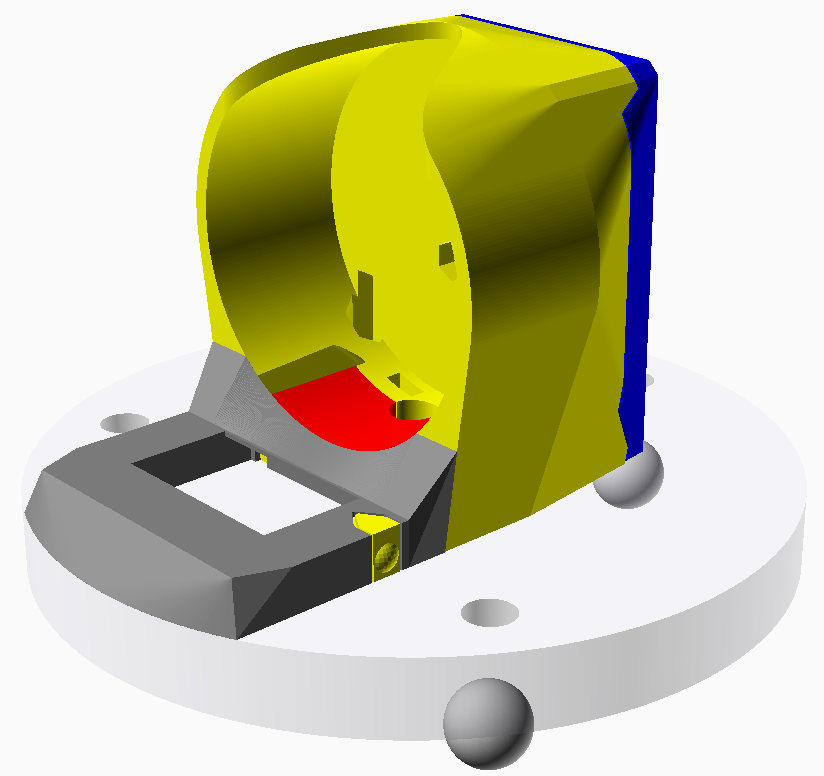
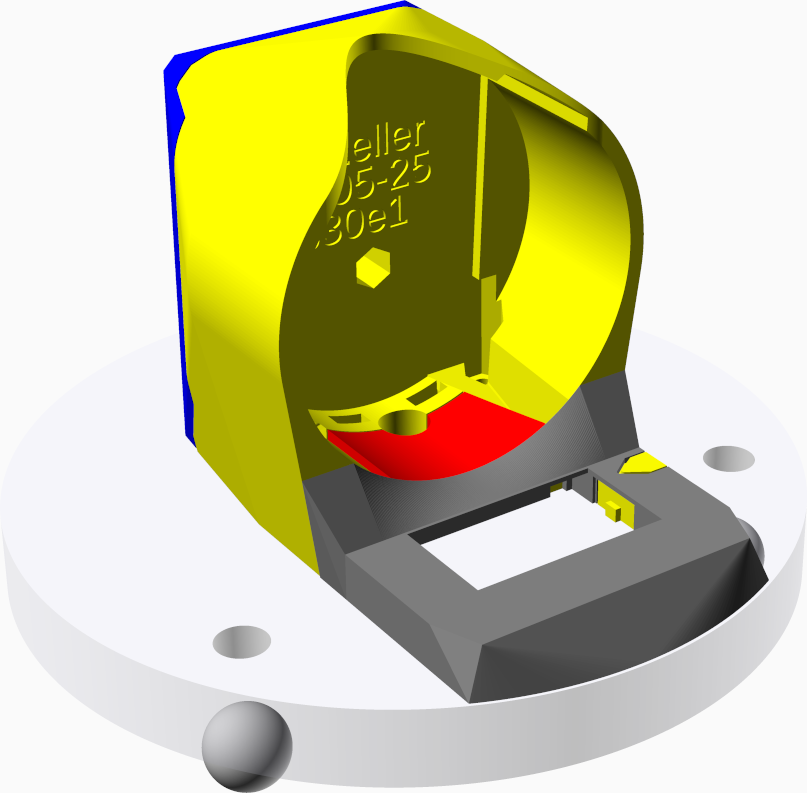
Update renders in README

diff --git a/frame/README.md b/frame/README.md
@@ -42,3 +42,7 @@ All screws are M3.
 
 ![](../img/dial-case.png)
 ![](../img/base-plate.png)
+
+Another style, originally used for a Mitutoyo-dial
+
+![](../img/dial-case-mitutoyo.png)
